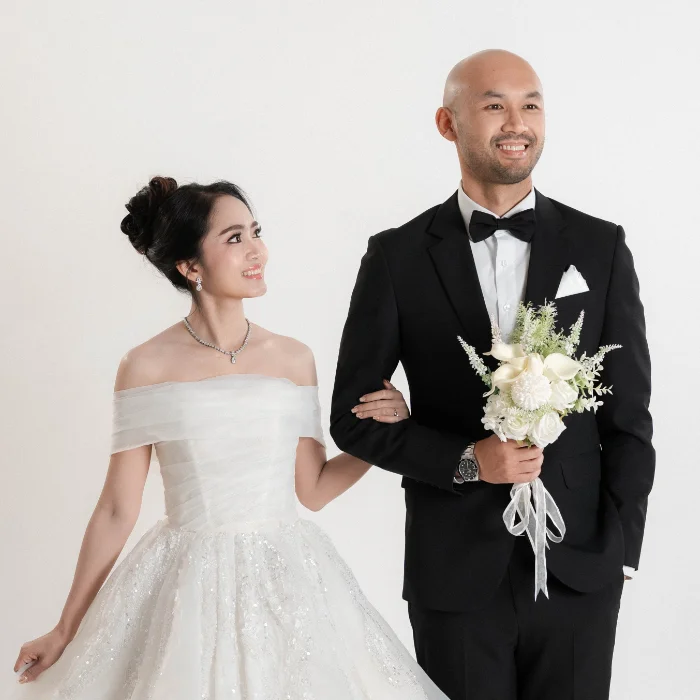
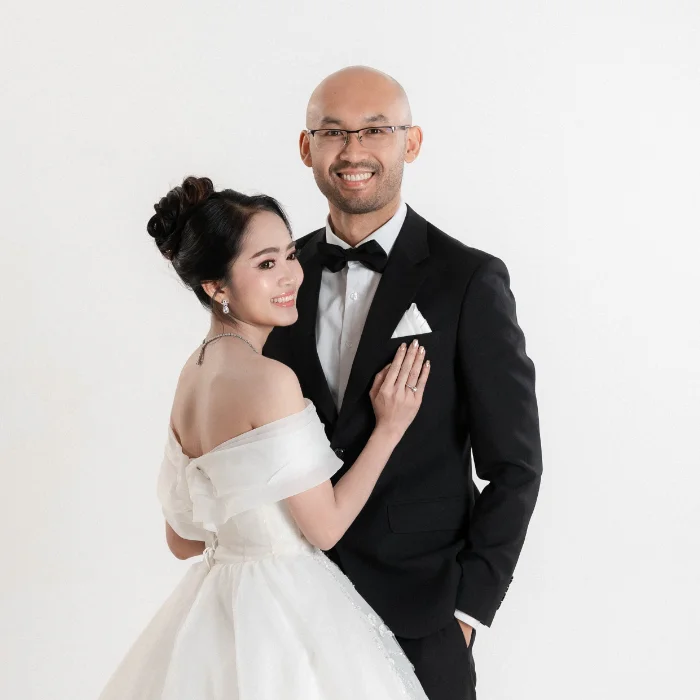
add thirds

diff --git a/index.html b/index.html
@@ -501,6 +501,18 @@
             </div>
         </div>
     </div>
+    <div class="thirds-wrapper">
+        <div class="third-container">
+            <img src="third-1.webp" alt="" class="third">
+            <img src="third-4.webp" alt="" class="third">
+            <img src="third-2.webp" alt="" class="third">
+        </div>
+        <div class="third-container">
+            <img src="third-5.webp" alt="" class="third">
+            <img src="third-6.webp" alt="" class="third">
+            <img src="third-3.webp" alt="" class="third">
+        </div>
+    </div>
     <footer>
         <img src="white-logo.webp" alt="wedding logo" loading="lazy">
         <p>Christopher & Chanthaphone</p>

diff --git a/style.css b/style.css
@@ -795,6 +795,24 @@ footer img {
   opacity: 1;
 }
 
+/* thirds */
+.thirds-wrapper {
+  width: 100%;
+  display: flex;
+  gap: 0;
+}
+
+.third-container {
+  width: 50%;
+  display: flex;
+}
+
+.third {
+  width: 33.33%;
+  display: block;
+  object-fit: cover;
+}
+
 
 /* TABLET BREAKPOINTS */
 @media (max-width: 1024px) {
@@ -1017,6 +1035,14 @@ footer img {
     left: 0;
     width: 100%;
     height: 50%;
+  }
+
+  .thirds-wrapper {
+    flex-direction: column;
+  }
+
+  .third-container {
+    width: 100%;
   }
 
 
